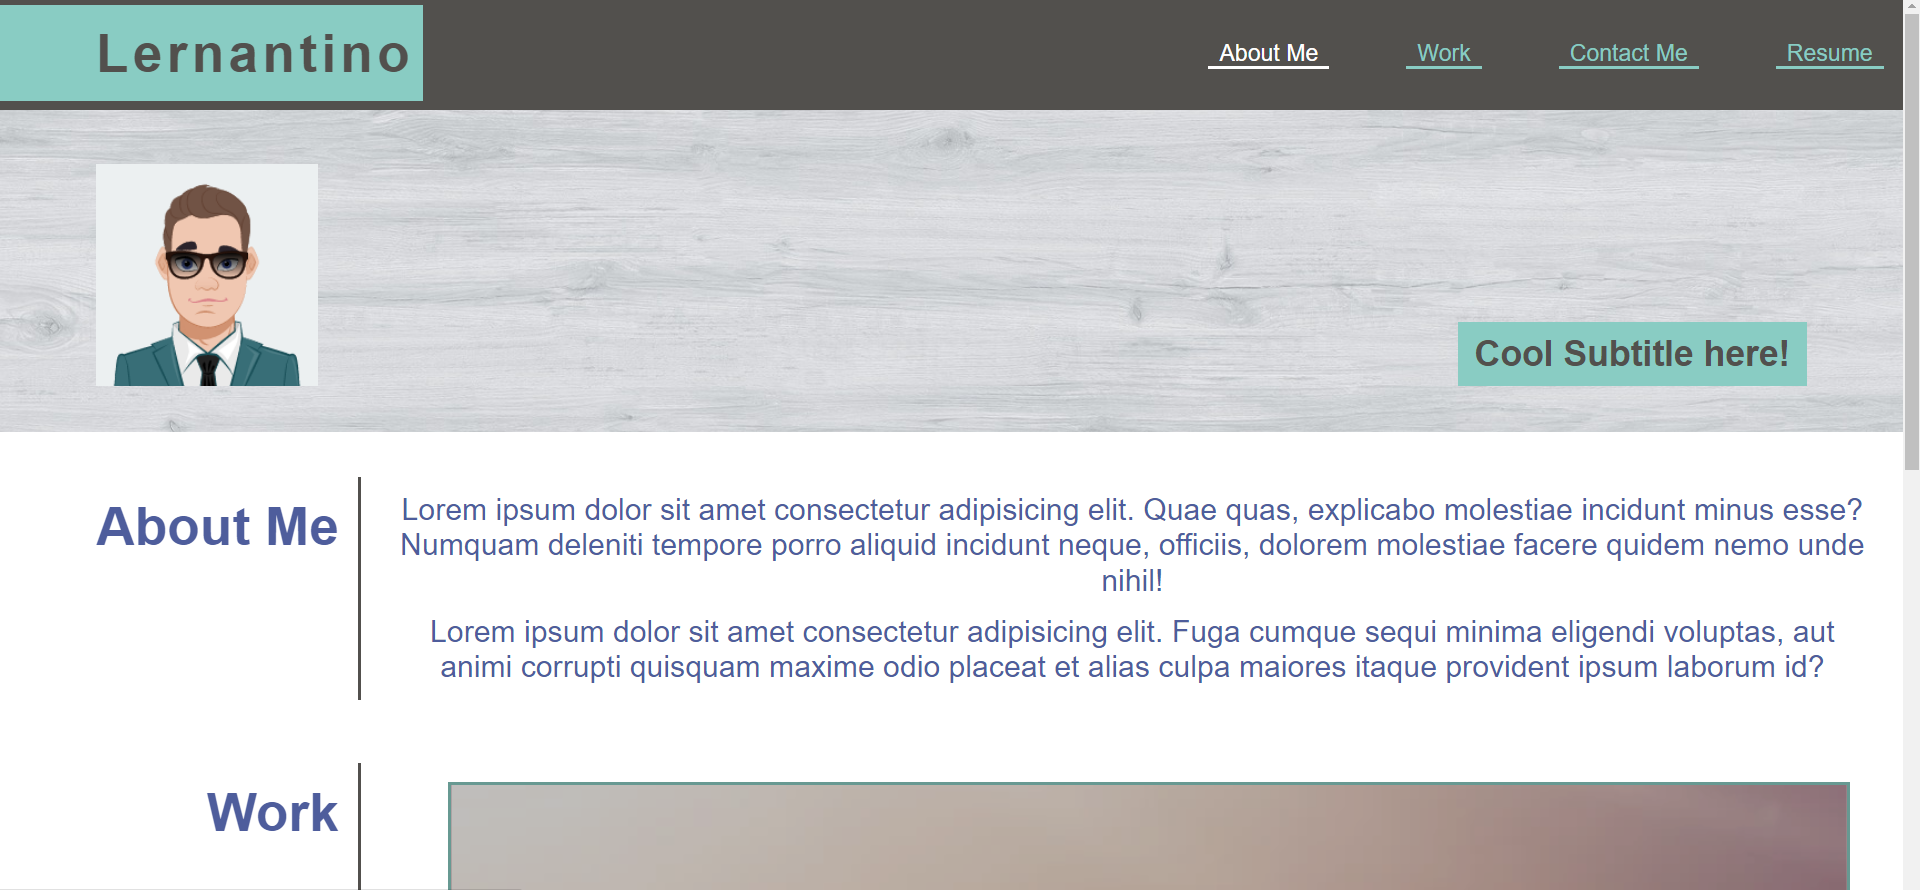
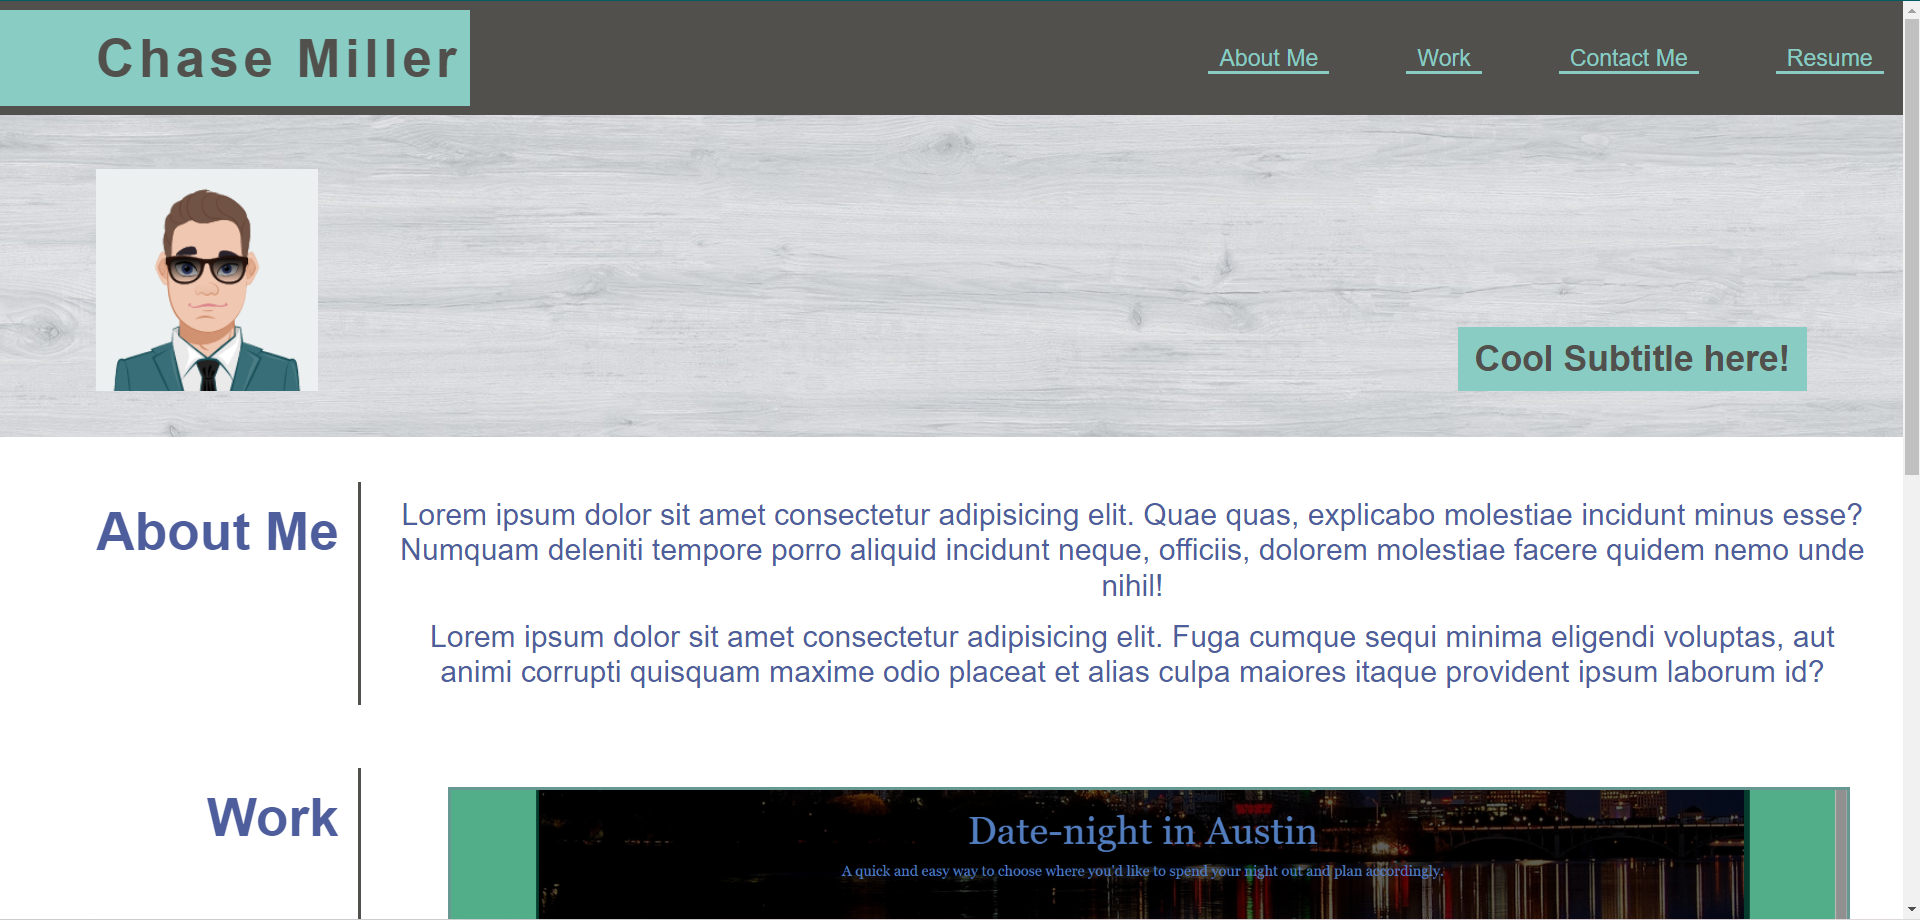
add Austin Date Night project

diff --git a/index.html b/index.html
@@ -57,12 +57,11 @@
             <!-- list of work -->
             <div class="projects">
                 <!-- projects wrapped in a tags -->
-                <a  href="./coming-soon.html">
-                    <div class="project first bg-image" id="surf-report">
-                        <!-- <img src="./assets/images/waves.webp" alt="Surf report project"> -->
+                <a  href="https://jeffrylangford.github.io/group-project-1/">
+                    <div class="project first bg-image" id="austin-date-night">
                         <div class="project-content">
-                            <h4>Surf Report</h4>
-                            <p>MERN Stack</p>
+                            <h4>Austin Date Night</h4>
+                            <p>JavaScript/HTML/CSS</p>
                         </div>
                         
                     </div>

diff --git a/assets/css/style.css b/assets/css/style.css
@@ -164,8 +164,8 @@ section {
     height: 70vw;
 }
 
-#surf-report {
-    background-image: url(../images/waves.png);
+#austin-date-night {
+    background-image: url(../images/autstin-date-night.png);
 }
 
 #led-wall {
